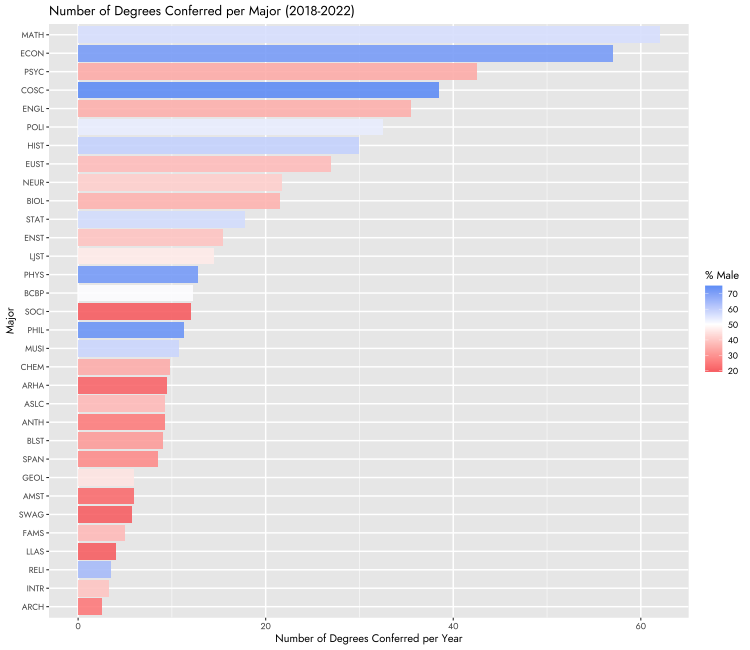
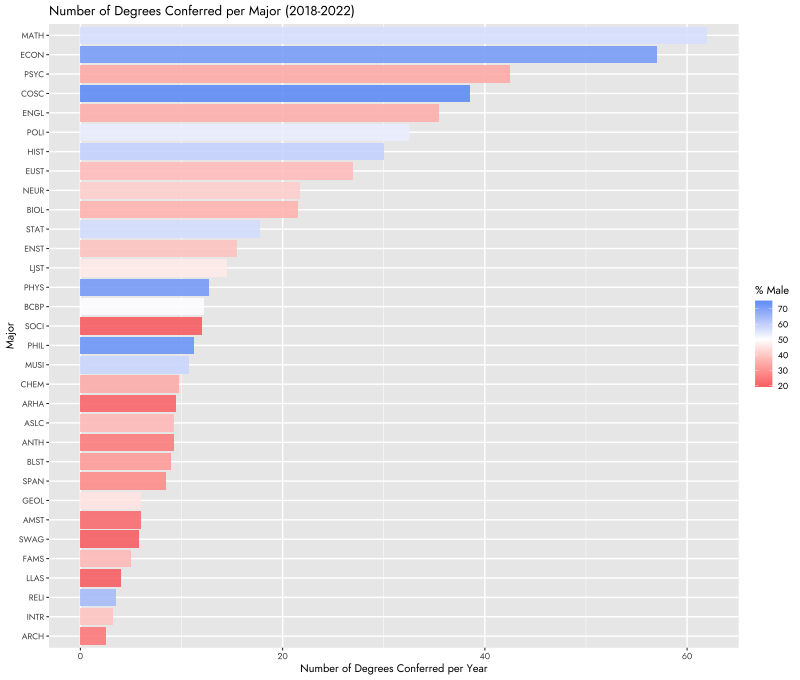
update plot

diff --git a/README.md b/README.md
@@ -3,7 +3,7 @@ Sara Zhu | STAT 240 | Fall 2022
 
 #### Introduction
 
-Over the past few years, Amherst College has become well-known for its efforts to diversify its studentbody. However, there is little information reported about the diversity (or lack thereof) of students withinclassrooms and academic majors on campus. In the first portion of this report, I explore the demographicmake-up of different majors at Amherst College to examine the degree to which different demographicgroups (race, sex, etc.) may be clustering in certain majors. The data set from the IPEDS database includesinformation on 2150 degrees conferred to Amherst College students who graduated in 2018, 2019, 2020,and 2021 (IPEDS). The clustering analysis is performed on the following six variables: male, non-resident(international), asian, hispanic/latino, black, and white. After comparing two different clustering methods,k-means clustering and agglomerative hierarchichal clustering, we plot the observations in PC space tovisualize the final clustering solution. The second portion of this report uses a network model to explorethe relationship between majors that have cross-listed courses in the 22-23 Amherst Course Catalog. Aftermining and processing the data from Amherst’s public course catalog, we construct a network based on 38majors and 369 cross-listings extracted from 754 courses. To detect clusters of majors based on cross-listings,we compare two greedy community detection algorithms - a modulation optimization algorithm and an edgebetweenness algorithm. The overall goal of this report is to identify clusters of majors based on demographicand curricular information
+Over the past few years, Amherst College has become well-known for its efforts to diversify its student body. However, there is little information reported about the diversity (or lack thereof) of students within classrooms and academic majors on campus. In the first portion of this report, I explore the demographic make-up of different majors at Amherst College to examine the degree to which different demographic groups (race, sex, etc.) may be clustering in certain majors. The data set from the IPEDS database includes information on 2927 degrees conferred to Amherst College students who graduated in 2018, 2019, 2020, 2021, and 2022 (IPEDS). The clustering analysis is performed on the following six variables: male, non-resident (international), asian, hispanic/latino, black, and white. After comparing two different clustering methods, k-means clustering and agglomerative hierarchichal clustering, we plot the observations in PC space to visualize the final clustering solution. The second portion of this report uses a network model to explore the relationship between majors that have cross-listed courses in the 22-23 Amherst Course Catalog. After mining and processing the data from Amherst's public course catalog, we construct a network based on 38 majors and 369 cross-listings extracted from 754 courses. To detect clusters of majors based on cross-listings, we compare two greedy community detection algorithms - a modulation optimization algorithm and an edge betweenness algorithm. The overall goal of this report is to identify clusters of majors based on demographic and curricular information.
 
 
 
